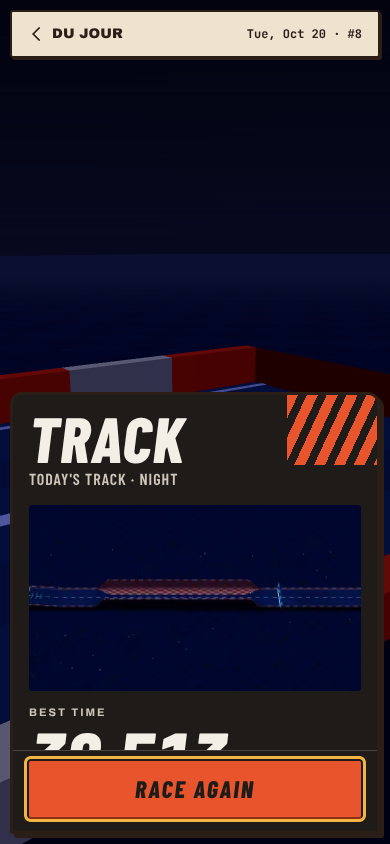
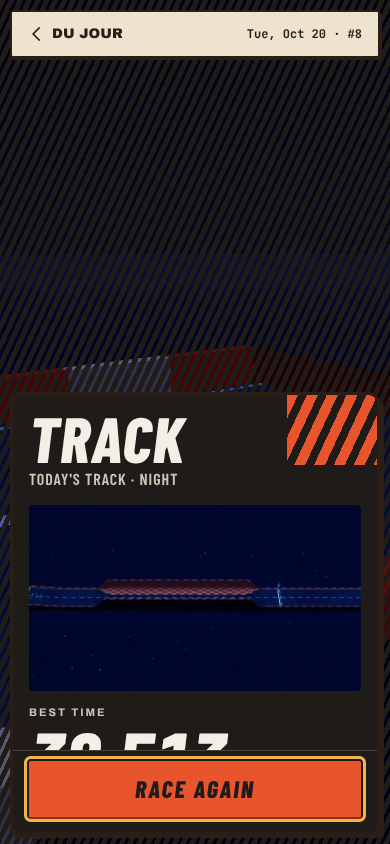
Accueil de Track : étiquette centrée dans la page sur trois colonnes, voile à rayures sur la vue 3D, plus de barre de défilement visible ; capture grand écran
Claude-Session: https://claude.ai/code/session_01L2PoBMZ4cyCGiNBoe6b6vM

Changed region(s): [[0.0, 0.0, 1.0, 0.3081], [0.0, 0.3389, 1.0, 1.0]]

diff --git a/apps/web/src/accueil.css b/apps/web/src/accueil.css
@@ -173,13 +173,16 @@ body.home #tbar {
   border-top: 1px solid var(--track-coque);
 }
 
-/* Tablette : deux colonnes ; un grand écran ou un téléphone en paysage garde une colonne à gauche (la scène occupe le reste, voir plus bas). */
+/* Tablette : deux colonnes (le Salon et les liens sous les deux). Grand écran : trois colonnes, voir plus bas. */
 @media (min-width: 700px) and (max-width: 999px) and (min-height: 521px) {
   .home-grille {
     display: grid;
     grid-template-columns: minmax(0, 1fr) minmax(0, 1fr);
     align-items: start;
     gap: 18px;
+  }
+  .home-col--c {
+    grid-column: 1 / -1;
   }
 }
 @media (min-width: 700px) {
@@ -523,10 +526,17 @@ body.finished #board {
   }
 }
 
-/* --- L'accueil garde la vue 3D autour du point de départ (retour de Nathan) : plus de fond crème plein écran ; la barre des jeux devient une plaque crème nette, l'étiquette Track
-   (opaque, ombre dure) s'arrête à la hauteur de son contenu, et la scène se voit autour d'elles. Les autres écrans restent des cadres crème. ---------------------------------------- */
+/* --- L'accueil reste posé sur la vue 3D du départ (retour de Nathan) : plus de fond crème plein écran, mais le **voile à rayures** de la pause (un masque : motif, jamais de flou ni de
+   translucidité) sur la scène ; la barre des jeux devient une plaque crème nette et l'étiquette Track (opaque, ombre dure) est centrée dans la page. Les autres écrans restent
+   des cadres crème. La barre de défilement de l'étiquette est masquée (on défile à la molette ou au doigt). ----------------------------------------------------------------------- */
 #home {
-  background: transparent;
+  background: repeating-linear-gradient(115deg, var(--track-asphalte) 0 5px, transparent 5px 8px);
+}
+#home .etiquette__corps {
+  scrollbar-width: none;
+}
+#home .etiquette__corps::-webkit-scrollbar {
+  display: none;
 }
 #home > .dj-barre-jeu {
   box-sizing: border-box;
@@ -549,32 +559,45 @@ body.finished #board {
     max-height: calc(100% - 64px - 40vh);
   }
 }
-/* Grand écran et téléphone en paysage : l'étiquette à gauche sur une colonne, la scène (et la voiture au départ) à droite. */
-@media (min-width: 1000px) and (min-height: 521px) {
+/* Tablette et grand écran : la barre et l'étiquette, groupées au milieu de la page. */
+@media (min-width: 700px) and (min-height: 521px) {
   #home {
-    align-items: flex-start;
-  }
-  #home > .dj-barre-jeu {
-    margin-left: 20px;
-    width: 500px;
-  }
-  #home > .etiquette {
-    margin-left: 20px;
-    width: 500px;
+    justify-content: center;
   }
 }
-@media (max-height: 520px) and (orientation: landscape) {
-  #home {
-    align-items: flex-start;
+/* Grand écran : trois colonnes (le circuit et tes temps · le classement · le Salon et les liens), centrées dans la page. */
+@media (min-width: 1000px) and (min-height: 521px) {
+  #home > .dj-barre-jeu,
+  #home > .etiquette {
+    width: min(1160px, calc(100% - 40px));
+    max-width: none;
   }
   #home > .dj-barre-jeu {
-    margin: 6px 0 6px 10px;
-    width: min(560px, calc(100% - 20px));
+    margin-top: 18px;
+  }
+  #home > .etiquette {
+    flex: 0 1 auto;
+    margin-bottom: 18px;
+  }
+  .home-grille {
+    display: grid;
+    grid-template-columns: minmax(0, 1fr) minmax(0, 1.15fr) minmax(0, 1fr);
+    align-items: start;
+    gap: 22px;
+  }
+  .home-col--c .home-liens {
+    grid-template-columns: repeat(2, minmax(0, 1fr));
+  }
+}
+/* Téléphone en paysage : une colonne, centrée. */
+@media (max-height: 520px) and (orientation: landscape) {
+  #home > .dj-barre-jeu {
+    margin: 6px 0;
+    width: min(640px, calc(100% - 20px));
   }
   #home > .etiquette {
     flex: 1 1 auto;
-    width: min(560px, calc(100% - 20px));
-    margin-left: 10px;
+    width: min(640px, calc(100% - 20px));
     margin-bottom: 6px;
   }
 }

diff --git a/apps/web/e2e/captures-lot-i4.spec.ts b/apps/web/e2e/captures-lot-i4.spec.ts
@@ -76,6 +76,27 @@ async function ouvrir(page: Page, query: string) {
 
 const photo = (page: Page, nom: string, vue: (typeof VUES)[number], langue: (typeof LANGUES)[number]) => page.screenshot({ path: join(OUT, `lot-I4-${nom}-${vue.slug}-${langue.slug}.png`) });
 
+// L'accueil sur grand écran (1440 × 900, souris) : trois colonnes centrées sur la vue 3D du départ (lot I4, retour de Nathan).
+for (const langue of LANGUES) {
+  test(`accueil — bureau ${langue.slug}`, async ({ browser }) => {
+    const context = await newClockedContext(browser, { viewport: { width: 1440, height: 900 }, locale: langue.locale, deviceScaleFactor: 1 });
+    await context.addInitScript(
+      ([id, replay, ms, simVersion]) => {
+        localStorage.setItem("cdj:name", "Nathan");
+        localStorage.setItem("cdj:howto", "1");
+        localStorage.setItem(`cdj:best:${id}`, JSON.stringify({ ms, splits: [9000, 18000, 27000], replay, simVersion, medal: "gold" }));
+      },
+      [circuit.track.id, codeOr, pilote.finishMs, SIM_VERSION] as const,
+    );
+    await simulerApi(context, pilote.finishMs);
+    const page = await context.newPage();
+    await ouvrir(page, "&home=1&debug");
+    await expect(page.locator("#home .home-classement .ligne").first()).toBeVisible({ timeout: 30_000 });
+    await page.waitForTimeout(800);
+    await page.screenshot({ path: join(OUT, `lot-I4-accueil-bureau-${langue.slug}.png`) });
+  });
+}
+
 for (const vue of VUES) {
   for (const langue of LANGUES) {
     test(`écrans hors partie — ${vue.slug} ${langue.slug}`, async ({ browser }) => {

diff --git a/apps/web/src/homeUi.ts b/apps/web/src/homeUi.ts
@@ -151,13 +151,16 @@ export function mountHome(root: HTMLElement, host: HomeHost): HomeUi {
   const actions = el("div", "home-actions");
   actions.append(playDaily);
 
+  // Trois colonnes sur grand écran (le circuit et tes temps · le classement · le Salon et les liens), une seule sur téléphone : même ordre de lecture.
   const colA = el("div", "home-col home-col--a");
-  colA.append(apercu, mine);
+  colA.append(apercu, mine, medailles, fantome);
   const colB = el("div", "home-col home-col--b");
-  colB.append(medailles, fantome, boardCard, salonCard);
+  colB.append(boardCard);
+  const colC = el("div", "home-col home-col--c");
+  colC.append(salonCard, links);
   const grille = el("div", "home-grille");
-  grille.append(colA, colB);
-  cadre.corps.append(tete, grille, links, touchNote, nextDay, actions);
+  grille.append(colA, colB, colC);
+  cadre.corps.append(tete, grille, touchNote, nextDay, actions);
 
   // --- Rendu ---
   function renderTexts() {

diff --git a/apps/web/e2e/salon.spec.ts b/apps/web/e2e/salon.spec.ts
@@ -370,7 +370,7 @@ test("accueil ⇄ Salon : on passe de l'un à l'autre en gardant l'API, par l'ac
   // La pause du Salon propose aussi l'accueil.
   await page.goto("/?api=demo&debug&mode=salon");
   await loaded(page);
-  await page.keyboard.press("KeyP");
+  await page.locator("#btn-pause").click(); // (la touche P pressée dès le chargement pouvait précéder l'écoute du clavier : le bouton attend qu'il soit actionnable)
   await expect(page.locator("#pause-home")).toBeVisible();
   await expect(page.locator("#pause-archive")).toBeHidden(); // pas d'archives dans le Salon
 });

diff --git a/docs/plateforme/lots/lot-I4-track.md b/docs/plateforme/lots/lot-I4-track.md
@@ -10,7 +10,7 @@ Aucun changement de `packages/sim`, `packages/core`, `packages/clock`, de la phy
 ## 1. Inventaire des écrans et des surimpressions
 | Écran / surimpression | Avant (lots 29 à 31) | Après (lot I4) | Fichiers |
 |---|---|---|---|
-| **Accueil** `#home` | panneau bleu nuit translucide sur la vue 3D du départ, titre « Circuit du Jour », cartes, carte du profil | **la vue 3D autour du point de départ reste visible** (retour de Nathan : pas de fond crème plein écran) ; la barre des jeux (« ‹ DU JOUR », date, n° du circuit) est une plaque crème nette et l'étiquette Track, opaque, s'arrête à la hauteur de son contenu : à gauche (500 px) sur grand écran et en paysage téléphone, sous une fenêtre de scène (40 % de la hauteur) en portrait, deux colonnes sur tablette. L'étiquette : « TRACK », « Circuit du jour · Canyon », aperçu du tracé (miniature du lot 13), meilleur temps en grand et « 14e sur 212 », quatre médailles en cases, fantôme à battre, **« Courir »** (principal Track), « Revoir le meilleur tour », Salon (“Room”), archives, réglages, aide, « Mon profil Du Jour › » | `homeUi.ts`, `homeLogic.ts`, `accueil.css` |
+| **Accueil** `#home` | panneau bleu nuit translucide sur la vue 3D du départ, titre « Circuit du Jour », cartes, carte du profil | **posé sur la vue 3D du départ** (retours de Nathan : pas de fond crème plein écran, pas un bout d'interface sur le côté) sous le **voile à rayures** de la pause (un masque en motif : la charte interdit le flou et la translucidité) ; la barre des jeux (« ‹ DU JOUR », date, n° du circuit) est une plaque crème nette et l'étiquette Track, opaque, est **centrée dans la page** : **trois colonnes** sur grand écran (le circuit, l'aperçu, ton meilleur temps, les médailles et le fantôme · le classement du jour · le Salon et les liens), deux sur tablette, une sur téléphone (en portrait collée en bas sous une fenêtre de scène de 40 %, en paysage centrée). **Aucune barre de défilement visible** (on défile à la molette ou au doigt). « Courir » reste collé en bas. Captures : `img/lot-I4-accueil-bureau-fr.png`, `…-portrait-…`, `…-paysage-…` |
 | **Classement du jour** | 10 lignes dans la carte de l'accueil, coin de la course | page `#board-screen` (maquette `track-classement.html`, ta ligne en moutarde, médaille en pastille et en toutes lettres), cinq lignes à l'accueil, coin compact de la course | `boardScreen.ts`, `boardView.ts`, `boardPanel.ts` |
 | **Archives** `#archive` | fenêtre translucide | cadre « ‹ TRACK » : dé, thèmes, jours avec miniatures (inchangées), seuils, « Revoir le meilleur tour » | `archive.ts`, `archiveExtras.ts` |
 | **Réglages** `#settings` | fenêtre à onglets (Graphismes, Son, Jeu, Commandes, **Profil**) | cadre « ‹ TRACK » (maquette `track-reglages.html`), mêmes onglets **sans Profil**, curseurs et choix de la charte, **langue** (`choixLangue`), liens « Mon profil Du Jour › » et « Mentions légales » | `settingsUi.ts`, `settings.ts`, `reglages.css` |
@@ -84,7 +84,7 @@ Chaînes : **450 clés** par langue (base 26, accueil 61 + classement, course et
 
 ## 7. Captures
 Chromium, **390×844 (portrait) et 844×390 (paysage)**, **français et anglais**, `CAPTURES=1 npx playwright test captures-lot-i4` (dans `apps/web`), rangées dans `docs/plateforme/lots/img/lot-I4-<écran>-<portrait|paysage>-<fr|en>.png` :
-- accueil, pause, classement, archives, réglages ;
+- accueil (portrait, paysage **et grand écran 1440 × 900**), pause, classement, archives, réglages ;
 - arrivée **avec médaille**, **sans médaille**, **avec « Jeu suivant du jour »** ;
 - Salon : **course**, **finale**, **résultats** ;
 - HUD des huit thèmes (une capture par thème, portrait FR ou paysage EN alternés, 16 images).
@@ -92,7 +92,7 @@ Chromium, **390×844 (portrait) et 844×390 (paysage)**, **français et anglais*
 **Pas de capture « Salon en attente »** : le Salon n'a pas de salle d'attente ni de statuts PRÊT / EN ATTENTE (il tourne en continu) ; la maquette `track-salon.html` en montre, ce lot ne les invente pas (voir § 8). Les captures portrait du HUD montrent la surimpression « Tourne ton téléphone » (le jeu se joue en paysage) par-dessus la scène.
 
 ## 8. Écarts à la charte et aux maquettes (à décider avec Nathan)
-0. **Accueil sur la scène 3D** (retour de Nathan après la première version) : la maquette n'en parle pas ; la charte demande des plaques opaques, ce qui est respecté (la scène se voit *autour* des plaques, rien n'est translucide). En portrait téléphone la voiture au départ est à peine visible (la fenêtre de scène est de 40 % de la hauteur) ; à ajuster selon le goût de Nathan.
+0. **Accueil sur la scène 3D** (retours de Nathan après la première version) : la maquette n'en parle pas. **Le masque est un voile à rayures, pas un flou** : la charte (§ 5 et § 11) interdit « verre dépoli », flou et translucidité, et le test `interface.test.ts` le vérifie ; si Nathan veut vraiment un flou ou une teinte translucide sur la scène, c'est un écart à la charte à décider (une ligne de CSS + un assouplissement du test). Les plaques restent opaques. En portrait téléphone la voiture au départ est à peine visible (fenêtre de scène de 40 %). La barre de défilement de l'étiquette est masquée sur l'accueil seulement : au clavier, Tab fait défiler jusqu'à l'élément focalisé.
 1. **Accueil plus chargé que la maquette** : il garde les cinq premières lignes du classement et la carte du Salon (le lot 29 les montrait à l'accueil) ; la charte n'en parle pas.
 2. **« Revoir le meilleur tour »** (et non « mon ») : c'est le meilleur tour du jour, pas le tien (fantôme du premier ou record local).
 3. **Perte de fonction à confirmer — « Changer mon code »** : le jeu ne le propose plus (le profil commun du portail le fait, `/profil/?retour=<chemin du jeu>`). Le **message « code révoqué »** n'existe plus dans les réglages (il reste à l'envoi d'un temps, avec le lien vers le profil). À remettre si Nathan veut les garder dans le jeu.
